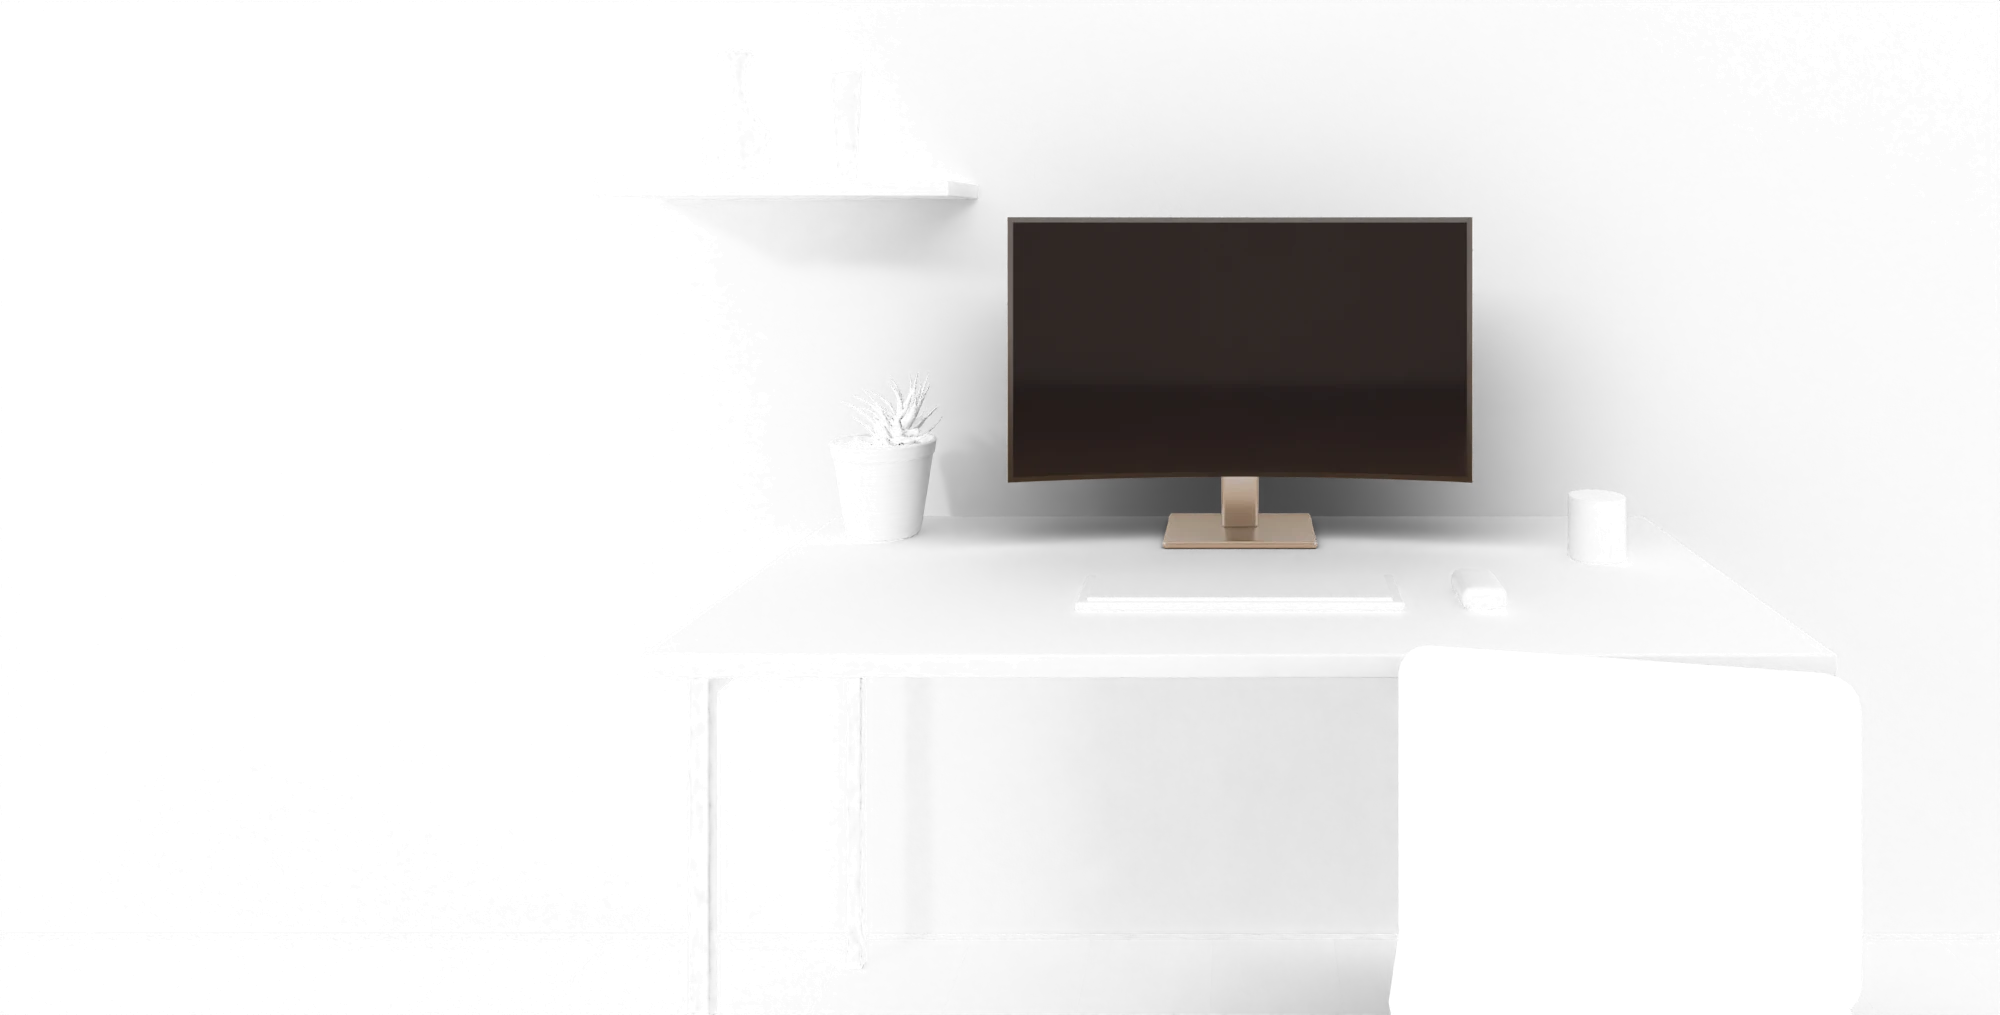
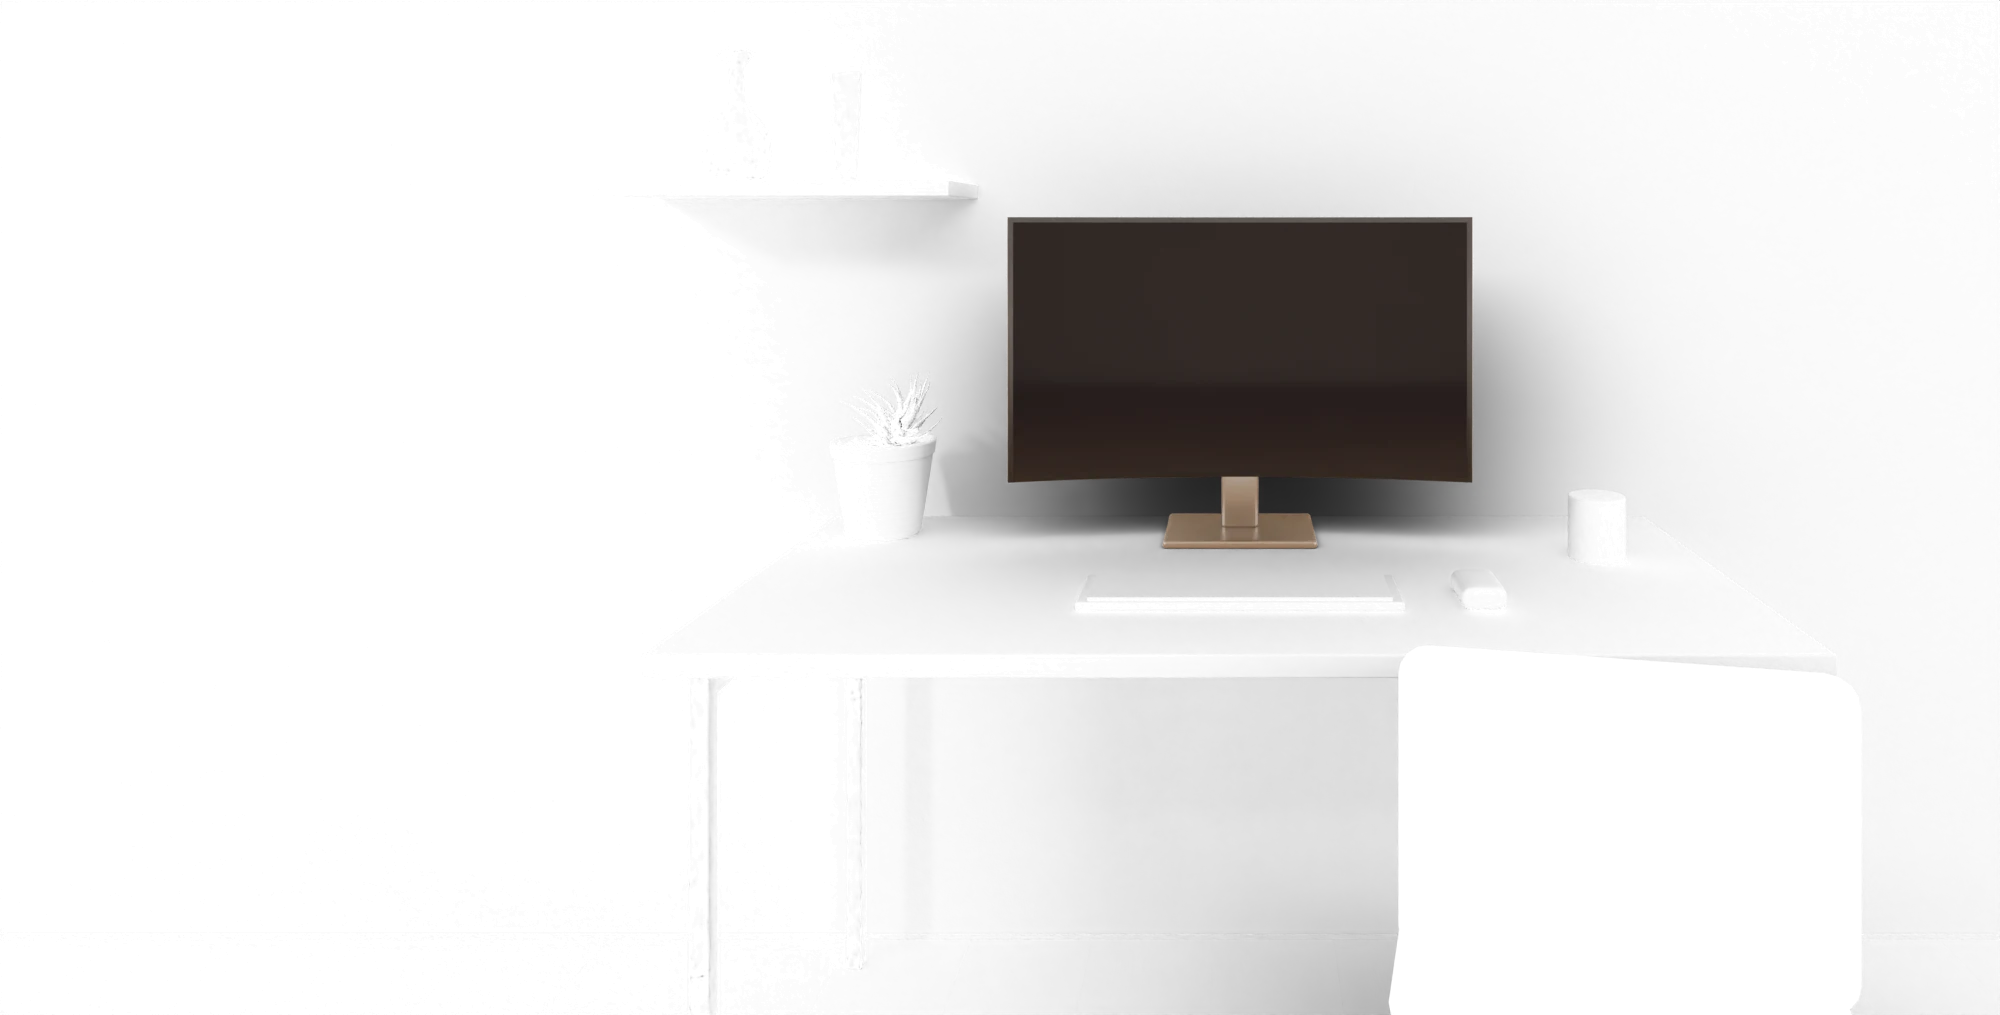
Monitor: elke wens zichtbaar op de werkplek
- Webcam: gerenderd huisje midden op de bovenrand (lagen 24w/27w/32w/34w/32cw).
  De gewone lagen opnieuw gerenderd met dezelfde scène, zodat alleen de webcam
  verschilt als je hem aanvinkt.
- In hoogte verstelbaar: pijl langs de voet en een label (vaak 10 tot 15 cm).
- OLED: het scherm toont een donkere sterrenhemel; bewust geen vergelijking
  met een gewoon scherm ernaast.
- Labels houden hun eigen hoogte (webcam bovenop, voet onderaan) in plaats van
  gelijk verdeeld over het scherm; op desktop blijven ze boven het bijschrift.
- Ultrawide past op mobiel weer in beeld.

Changed region(s): [[0.527, 0.4581, 0.744, 0.5498], [0.62, 0.8857, 0.713, 0.9773]]

diff --git a/monitor/vragen/vragen.js b/monitor/vragen/vragen.js
@@ -3,7 +3,7 @@
 // (24/27/32/34 inch, vlak of gebogen) is een transparante laag
 // (render/scene.py). Beeld op het scherm zet placeQuad() er precies op.
 // Motor: shared/quiz3d.js.
-import { createQuiz3D, makeCamera, dimLine, spotColumn, placeQuad } from "../../shared/quiz3d.js";
+import { createQuiz3D, makeCamera, dimLine, placeQuad } from "../../shared/quiz3d.js";
 import { matchMonitors, heeftWens, voldoetAanGame } from "../js/matching.js";
 import { normalizeProducts, parsePrice } from "../js/utils.js";
 import { fetchProducts } from "../js/supabase.js";
@@ -29,7 +29,7 @@ const MON = {
   groot:     { key: "32", w: 0.708, h: 0.398, inch: "32 inch" },
   ultrawide: { key: "34", w: 0.794, h: 0.340, inch: "34 inch ultrawide" },
 };
-const MY = -0.2, MZ0 = 0.86, R = 1.5;
+const MY = -0.2, MZ0 = 0.86, R = 1.5, DZ = 0.75, RAND = 0.008;
 
 // Sinds okt. 2026: budget als vraag 2, de gamevraag alleen bij "Gamen", en de
 // extra's opgesplitst in beeld en werkplek (zie docs/monitor-keuzehulp-werking.md).
@@ -103,12 +103,40 @@ function frameRow(hz, runPx) {
 const mon = st => MON[st.schermgrootte || "standaard"];
 const bijWensen = st => QID(st) === "beeld" || QID(st) === "extra";
 const curved = st => bijWensen(st) && st.beeld.includes("gebogen") && mon(st).key !== "24";
+const webcam = st => QID(st) === "extra" && st.extra.includes("webcam");
 const usages = st => (st.gebruik.includes("algemeen") || !st.gebruik.length ? ["algemeen", "thuiswerk", "creatief", "gaming"] : st.gebruik);
 
 function corners(st) {
   const m = mon(st);
   const yEdge = curved(st) ? MY - (R - Math.sqrt(R * R - (m.w / 2) ** 2)) : MY;
   return [[-m.w / 2, yEdge, MZ0 + m.h], [m.w / 2, yEdge, MZ0 + m.h], [m.w / 2, yEdge, MZ0], [-m.w / 2, yEdge, MZ0]];
+}
+
+// Labels rechts van de monitor (of links als daar geen ruimte is), elk met een lijn
+// naar zijn eigen punt. Zoals spotColumn in shared/quiz3d.js, maar elk punt houdt
+// zijn eigen hoogte: van de webcam bovenop tot de voet op het bureau.
+function labelKolom(ctx, points, edgeX) {
+  let svg = "", html = "";
+  if (!points.length) return { svg, html };
+  const placed = points.map(p => ({ ...p, px: ctx.toPx(p.x, p.y, p.z) })).sort((a, b) => a.px.y - b.px.y);
+  let labelX = ctx.toPx(edgeX, MY, MZ0).x + 22;
+  // weinig ruimte rechts: alleen de naam; pas bij echt geen ruimte naar links
+  const kort = ctx.mobile || ctx.width - labelX < 300, flip = ctx.width - labelX < 150;
+  if (flip) labelX = Math.min(...placed.map(d => d.px.x)) - 22;
+  const gap = ctx.mobile ? 26 : 32, ys = placed.map(d => d.px.y);
+  for (let i = 1; i < ys.length; i++) ys[i] = Math.max(ys[i], ys[i - 1] + gap);
+  // op desktop staat rechtsonder het bijschrift: labels blijven daarboven
+  const overflow = ys[ys.length - 1] - (ctx.height - (ctx.mobile ? 20 : 150));
+  if (overflow > 0) for (let i = 0; i < ys.length; i++) ys[i] -= overflow;
+  for (let i = ys.length - 2; i >= 0; i--) ys[i] = Math.min(ys[i], ys[i + 1] - gap);
+  placed.forEach((d, i) => {
+    svg += `<line x1="${d.px.x}" y1="${d.px.y}" x2="${labelX}" y2="${ys[i]}" class="leader"/>`;
+    // zonder stip als die het onderdeel zelf zou bedekken (de webcam is maar 5 cm breed)
+    if (!d.noSpot) html += `<div class="spot is-on" style="left:${d.px.x}px;top:${d.px.y}px"></div>`;
+    const pos = flip ? `right:${ctx.width - labelX}px` : `left:${labelX}px`;
+    html += `<div class="spot-label is-on" style="${pos};top:${ys[i]}px">${kort ? d.label.split(":")[0] : d.label}</div>`;
+  });
+  return { svg, html };
 }
 
 // ───────── budget ─────────
@@ -204,6 +232,7 @@ function setup(scene) {
     <div class="view" data-v="thuiswerk"><div class="win" style="background:#e9e9ee"><div class="bar"><b></b><b></b><b></b><span class="url">Kwartaalrapport.docx</span></div><div class="doc"><h4>Kwartaalrapport</h4>${"<i></i>".repeat(16)}</div></div></div>
     <div class="view" data-v="creatief"><div class="editor"><div class="tools"></div><img class="photo" src="shared/img/scherm/scherm-kleur.webp" alt=""><div class="side"><i style="--p:70%"></i><i style="--p:35%"></i><i style="--p:55%"></i><i style="--p:80%"></i><i style="--p:20%"></i></div></div></div>
     <div class="view" data-v="gaming"><img class="fill" src="shared/img/scherm/scherm-gamen.webp" alt=""><div class="hud is-on"><div class="pos">P3<small>/ 12</small></div><div class="lap">Ronde 2 / 5</div><div class="speed"><b>187</b><small>KM/U</small></div></div></div>
+    <div class="view" data-v="oled"><img class="fill" src="shared/img/scherm/scherm-zwart.webp" alt=""></div>
     <div class="view" data-v="hz"><div class="hz"><div class="lab" id="hzT"></div><div class="row" id="hzRow" style="top:44%"><em id="hzE"></em></div><div class="row ref" id="hzRef" style="top:64%"><em>60 Hz</em></div><div class="note">Elke stip is één beeld van een bewegend object in 1/15 seconde. Meer Hz = meer tussenbeelden = vloeiender en scherper in beweging. Stilstaand getoond, omdat je eigen scherm hogere Hz niet kan laten zien.</div></div></div>`;
   scene.querySelector(".layers").after(scr);
   views = [...scr.querySelectorAll(".view")];
@@ -231,7 +260,8 @@ function afterRender(ctx) {
     ref.style.display = hz === 60 ? "none" : "";
     ref.innerHTML = "<em>60 Hz</em>" + frameRow(60, run);
     showView("hz");
-  } else showView(usages(st)[0]);
+  } else if (id === "beeld" && st.beeld.includes("oled")) showView("oled");
+  else showView(usages(st)[0]);
 }
 
 const quiz = createQuiz3D({
@@ -245,8 +275,9 @@ const quiz = createQuiz3D({
     return { ...q, options: metBeschikbaarheid(st, q.id, q.options) };
   },
   setup, afterRender,
-  images: st => ["bureau", mon(st).key + (curved(st) ? "c" : "")],
-  focus: () => ({ x: 0, y: MY, z: 1.0, zoom: 1.7 }),
+  images: st => ["bureau", mon(st).key + (curved(st) ? "c" : "") + (webcam(st) ? "w" : "")],
+  // de ultrawide is te breed voor de standaardzoom op een telefoon
+  focus: st => ({ x: 0, y: MY, z: 1.0, zoom: mon(st).key === "34" ? 1.35 : 1.7 }),
   // bij de wensen de monitor iets naar links, zodat de labels er rechts naast passen
   focusDesktop: st => ({ x: 0.02, y: MY, z: 1.0, zoom: st.q === 0 ? 1.3 : bijWensen(st) ? 1.35 : 1.5, anchorX: bijWensen(st) ? 0.54 : 0.64 }),
 
@@ -262,13 +293,22 @@ const quiz = createQuiz3D({
       const c = corners(st);
       const pts = [];
       if (QID(st) === "beeld") {
+        if (st.beeld.includes("oled")) pts.push({ x: m.w * 0.3, y: c[0][1], z: MZ0 + m.h * 0.55, label: "<b>OLED</b>: elke pixel geeft zelf licht, zwart is echt zwart" });
         if (st.beeld.includes("4k")) pts.push({ x: 0, y: c[0][1], z: MZ0 + m.h * 0.8, label: "<b>4K</b>: vier keer zoveel pixels als Full HD" });
         if (st.beeld.includes("gebogen")) pts.push({ x: m.w / 2 - 0.03, y: c[1][1], z: MZ0 + m.h * 0.5, label: "<b>Gebogen</b>: omringt je blikveld" });
       } else {
+        if (st.extra.includes("webcam")) pts.push({ x: 0.03, y: MY - 0.006, z: MZ0 + m.h + RAND + 0.0075, noSpot: true, label: "<b>Webcam</b>: videobellen zonder losse camera" });
+        if (st.extra.includes("hoogte")) {
+          // pijl langs de voet: zo ver gaat het scherm ongeveer omhoog en omlaag
+          const a = ctx.toPx(-0.07, MY + 0.05, DZ + 0.03), b = ctx.toPx(-0.07, MY + 0.05, MZ0 - 0.01);
+          svg += `<line x1="${a.x}" y1="${a.y}" x2="${b.x}" y2="${b.y}" class="hoogte"/>`
+            + `<path class="hoogte-kop" d="M${b.x - 6} ${b.y + 8} L${b.x} ${b.y} L${b.x + 6} ${b.y + 8} M${a.x - 6} ${a.y - 8} L${a.x} ${a.y} L${a.x + 6} ${a.y - 8}"/>`;
+          pts.push({ x: 0.03, y: MY + 0.04, z: DZ + 0.06, label: "<b>In hoogte verstelbaar</b>: vaak zo'n 10 tot 15 cm" });
+        }
         if (st.extra.includes("speakers")) pts.push({ x: 0.1, y: MY, z: MZ0 - 0.005, label: "Ingebouwde <b>speakers</b>" });
         if (st.extra.includes("usbc")) pts.push({ x: m.w / 2 - 0.02, y: MY + 0.02, z: MZ0 + 0.03, label: "<b>USB-C</b>: laptop aansluiten én opladen" });
       }
-      add(spotColumn(ctx, pts, { zBot: MZ0 + 0.02, zTop: MZ0 + m.h - 0.03, edgeX: m.w / 2 + 0.03, edgeY: MY }));
+      add(labelKolom(ctx, pts, m.w / 2 + 0.03));
     }
     return { svg, html };
   },
@@ -321,7 +361,7 @@ const quiz = createQuiz3D({
     window.location.href = "monitor/resultaat/";
   },
 
-  preload: ["bureau", "27", "24", "32", "34", "27c", "32c", "34c"],
+  preload: ["bureau", "27", "24", "32", "34", "27c", "32c", "34c", "27w", "24w", "32w", "34w", "32cw"],
 });
 
 // Meting: waar haken mensen af, en wat kiezen ze (o.a. de budgetvraag)

diff --git a/monitor/vragen/index.html b/monitor/vragen/index.html
@@ -80,6 +80,7 @@
 .lscreen .store .legend b { display: inline-block; width: 12px; height: 12px; border-radius: 3px; margin-right: 6px; vertical-align: -1px; }
 /* verversingssnelheid: stilstaande weergave van de tussenbeelden (geen animatie,
    want een scherm kan nooit sneller verversen dan zijn eigen Hz) */
+.hoogte, .hoogte-kop { stroke: #fff; stroke-width: 2.5; fill: none; stroke-linecap: round; stroke-linejoin: round; filter: drop-shadow(0 1px 2px rgba(0,0,0,.45)); }
 .lscreen .hz { position: absolute; inset: 0; background: radial-gradient(120% 120% at 30% 20%, #1d2b45, #0b0f18 70%); color: #fff; }
 .lscreen .hz .lab { position: absolute; left: 26px; top: 20px; font-size: 30px; font-weight: 700; }
 .lscreen .hz .lab small { display: block; font-size: 15px; font-weight: 500; opacity: .7; margin-top: 4px; }

diff --git a/tools/3d-render/monitor/scene.py b/tools/3d-render/monitor/scene.py
@@ -332,8 +332,12 @@ MY = -0.2            # voorkant van het scherm
 MZ0 = DZ + 0.11      # onderrand van het scherm
 mon = []
 lay = A.layer
+webcam = lay.endswith("w")          # bv. 27w of 32cw: met webcam bovenop de rand
+lay = lay.rstrip("w")
 curved = lay.endswith("c")
 size = lay.rstrip("c")
+M_LENS = flat("mon_lens", (0.004, 0.004, 0.006), 0.05)
+M_RING = flat("mon_cam_ring", (0.4, 0.4, 0.42), 0.25, 1.0)
 if size in MON:
     w, h = MON[size]
     b = 0.008
@@ -362,6 +366,16 @@ if size in MON:
     mon.append(box("mon_back", -w * 0.3, w * 0.3, MY + 0.012, MY + 0.05, MZ0 + h * 0.2, MZ0 + h * 0.75, M_MON, bevel=0.01, segs=3))
     mon.append(box("mon_neck", -0.03, 0.03, MY + 0.04, MY + 0.07, DZ + 0.01, MZ0 + h * 0.55, M_STAND, bevel=0.006, segs=3))
     mon.append(box("mon_base", -0.12, 0.12, MY - 0.05, MY + 0.14, DZ, DZ + 0.012, M_STAND, bevel=0.005, segs=3))
+    if webcam:
+        # webcamhuisje midden op de bovenrand, lens naar voren (zelfde maten als vragen.js)
+        top = MZ0 + h + b
+        mon.append(box("mon_cam", -0.026, 0.026, MY - 0.006, MY + 0.014, top - 0.002, top + 0.017, M_MON, bevel=0.005, segs=3))
+        for nm, r_, d0, d1, mt in (("mon_cam_ring", 0.0068, 0.0, 0.0012, M_RING), ("mon_cam_lens", 0.0045, 0.0, 0.0018, M_LENS)):
+            # ronde schijf, as naar voren (-y)
+            o = cyl(nm, r_, 0, d1 - d0, 0, 0, mt, 48)
+            o.data.transform(Matrix.Rotation(math.radians(90), 4, "X"))
+            o.location = (0, MY - 0.006, top + 0.0075)
+            mon.append(o)
     lap = mon
 
 if A.layer != "none":
